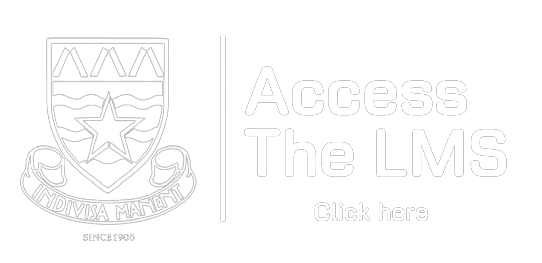
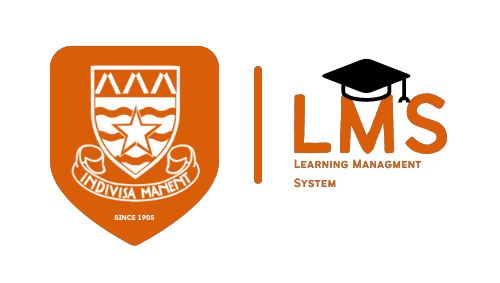
fix update

diff --git a/index.html b/index.html
@@ -665,10 +665,11 @@ $(document).ready(function(){
   </style>
   <div class="box1">
     <h1>Access the College LMS</h1>
-    <img class="img-lms" src="img/PicsArt_12-22-07.37.31.jpg" width="45%" style="align-items: center;">
+    <img class="img-lms" src="College Assests/College-Items/access-to-lms.png" width="45%" style="align-items: center;">
+    <br>
     <br>
     <div class="button" style="align-items: center;">
-    <a href="https://lms.delasalle.lk" class="btn btn-primary btn-lg" style="align-items: center;">LMS Portal Login</a>
+    <a href="https://lms.delasalle.lk" class="btn btn-primary btn-lg" style="align-items: center;    background-color: #da5d08;"><span class="css_blink"> Portal Login </span></a>
   </div>
   </div>
 <br>
@@ -1166,7 +1167,7 @@ $(document).ready(function(){
             <div class="container">
                       <div class="sidden-sm col-md-3 footer-content-logo"><img src="https://raw.githubusercontent.com/kasuncfdo/dls/main/College%20Assests/College-Items/DLS_WEBCREST.png" class="img-responsive">
                         <div>
-                            <a href="https://www.dhanum-saviya.blogspot.com" target="_blank">
+                            <a href="https://lms.delasalle.lk" target="_blank">
                             <img src="College Assests/College-Items/access-to-lms.png" height="40px" width="auto" class="img-responsive">
                             </a>
                           </div>
